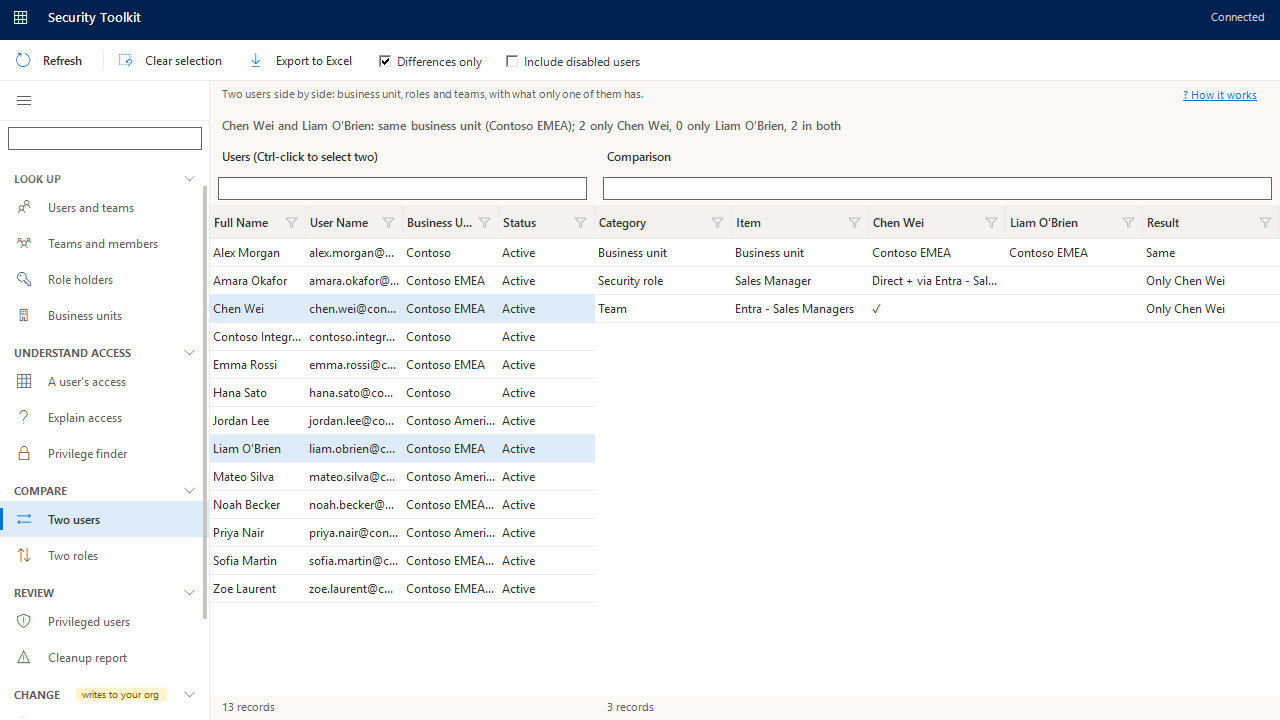
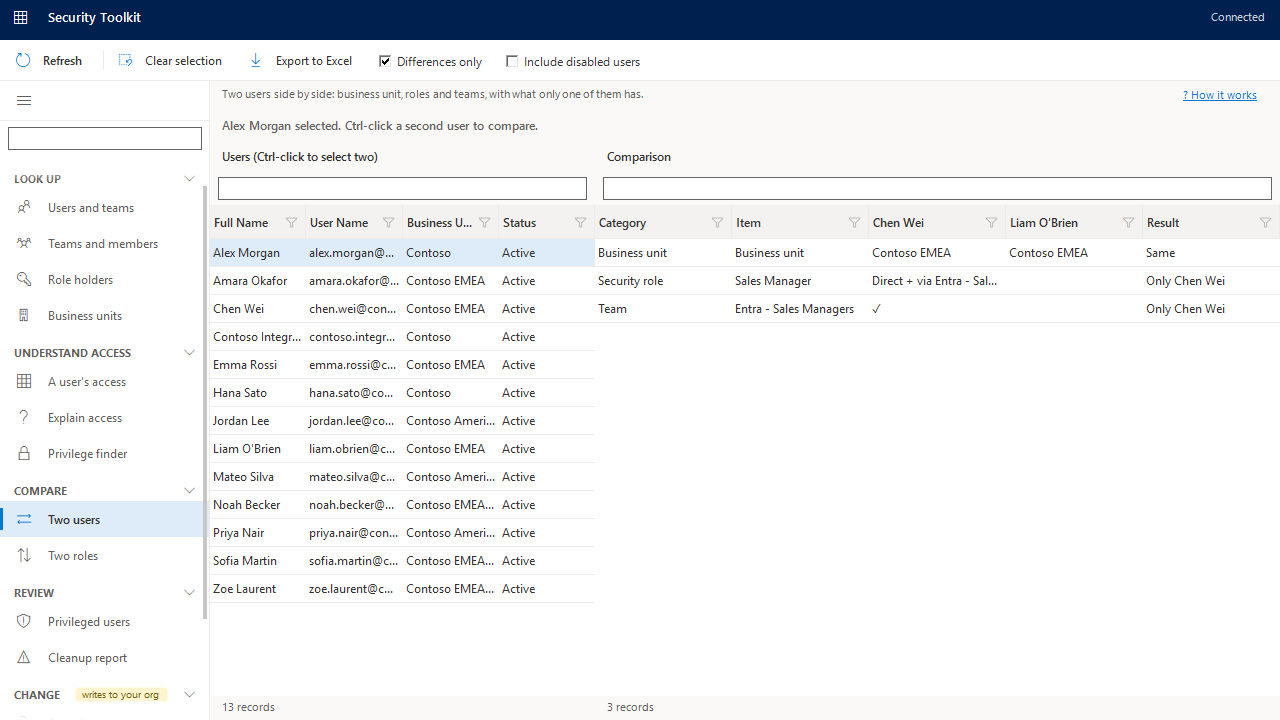
Users and teams tree: user name in bold with its business unit, teams with theirs

diff --git a/SecurityToolkit.Tests/UsersAndTeamsViewTests.cs b/SecurityToolkit.Tests/UsersAndTeamsViewTests.cs
@@ -119,7 +119,8 @@ namespace SecurityToolkit.Tests
             WithSelection(new[] { "Bob" }, (view, tree) =>
             {
                 var bob = Assert.Single(tree.Nodes.Cast<TreeNode>());
-                Assert.Equal("Bob", bob.Text);
+                Assert.Equal("Bob - Sales", bob.Text);
+                Assert.True(bob.NodeFont != null && bob.NodeFont.Bold, "The user is shown in bold.");
                 Assert.Equal(new[] { "Direct roles (1)", "Teams (2)" }, Texts(bob.Nodes));
 
                 var direct = bob.Nodes[0];
@@ -169,11 +170,41 @@ namespace SecurityToolkit.Tests
         }
 
         [Fact]
+        public void TeamsSayWhichBusinessUnitTheyAreIn_RolesStayPlain()
+        {
+            Sta.Run(() =>
+            {
+                var org = new TreeOrg();
+                var view = new UsersAndTeamsFeature().CreateView(new TestHost { Security = new SecurityToolkit.Services.SecurityService(OrgFake.Serve(org.Graph)) });
+                var form = new Form { Size = new Size(1000, 500) };
+                form.Controls.Add(view);
+                form.Show();
+                Application.DoEvents();
+                Click(Button(view, "Load users"));
+                var grid = (DataGridView)Sta.Find(view, c => c is DataGridView);
+                foreach (DataGridViewRow row in grid.Rows)
+                {
+                    row.Selected = ((SecurityToolkit.Models.UserInfo)row.DataBoundItem).FullName == "Ada";
+                }
+
+                Click(Button(view, "Show teams"));
+                var ada = ((TreeView)Sta.Find(view, c => c is TreeView)).Nodes[0];
+
+                Assert.Equal("Ada - Root", ada.Text);
+                Assert.Equal(new[] { "Admin" }, Texts(ada.Nodes[0].Nodes));                       // a role: the name only
+                var team = ada.Nodes[1].Nodes[0];
+                Assert.Equal("Alpha - Root", team.Text);                                          // a team: with its business unit
+                Assert.Equal(new[] { "Auditor" }, Texts(team.Nodes));
+                form.Dispose();
+            });
+        }
+
+        [Fact]
         public void Tree_ShowsSeveralSelectedUsersAsSeparateBranches()
         {
             WithSelection(new[] { "Ada", "Bob" }, (view, tree) =>
             {
-                Assert.Equal(new[] { "Ada", "Bob" }, Texts(tree.Nodes));
+                Assert.Equal(new[] { "Ada - Root", "Bob - Sales" }, Texts(tree.Nodes));
                 Assert.Equal(new[] { "Admin" }, Texts(tree.Nodes[0].Nodes[0].Nodes));
             });
         }

diff --git a/SecurityToolkit/Features/UsersAndTeamsFeature.cs b/SecurityToolkit/Features/UsersAndTeamsFeature.cs
@@ -187,7 +187,10 @@ namespace SecurityToolkit.Features
             /// </summary>
             private TreeNode BuildUserNode(UserInfo user)
             {
-                var userNode = Node(user.FullName, TreeIcons.User, "User");
+                // The user stands out in bold, and users and teams say which business unit they are in. Roles do not: a role is a copy in some business unit, which only confuses.
+                var userNode = Node(WithBusinessUnit(user.FullName, user.BusinessUnitName), TreeIcons.User, "User");
+                userNode.NodeFont = Theme.FontBold;
+                userNode.Text = userNode.Text; // re-set so the tree measures the bold text, or it is clipped
 
                 var directRoles = Graph.DirectRolesOf(user.Id);
                 var directNode = Node($"Direct roles ({directRoles.Count})", TreeIcons.DirectRolesGroup, "Security roles assigned to the user themselves");
@@ -200,7 +203,7 @@ namespace SecurityToolkit.Features
                 var teamsNode = Node($"Teams ({teams.Count})", TreeIcons.TeamsGroup, "Teams the user belongs to; a team's roles apply to all its members");
                 foreach (var team in teams)
                 {
-                    var teamNode = Node(team.Name, TreeIcons.Team, team.TypeName + " team");
+                    var teamNode = Node(WithBusinessUnit(team.Name, team.BusinessUnitName), TreeIcons.Team, team.TypeName + " team");
                     foreach (var role in Graph.RolesOfTeam(team.Id))
                     {
                         teamNode.Nodes.Add(Node(role.Name, TreeIcons.InheritedRole, $"Inherited from team {team.Name}"));
@@ -212,6 +215,12 @@ namespace SecurityToolkit.Features
                 userNode.Nodes.Add(directNode);
                 userNode.Nodes.Add(teamsNode);
                 return userNode;
+            }
+
+            /// <summary>"Name - Business unit"; just the name when the business unit is not known.</summary>
+            internal static string WithBusinessUnit(string name, string businessUnit)
+            {
+                return string.IsNullOrWhiteSpace(businessUnit) ? name : name + " - " + businessUnit;
             }
 
             private static TreeNode Node(string text, int icon, string toolTip)

diff --git a/SecurityToolkit.Tests/Screenshots.cs b/SecurityToolkit.Tests/Screenshots.cs
@@ -324,7 +324,7 @@ namespace SecurityToolkit.Tests
                 LoadedWithoutSelection("users-and-teams");
                 MasterDetailHarness.Select<UserInfo>(Grids("users-and-teams")[0], u => u.FullName == "Chen Wei");
                 var tree = FindControls<TreeView>(views["users-and-teams"]).Single();
-                Until(() => tree.Nodes.Count == 1 && tree.Nodes[0].Text == "Chen Wei");
+                Until(() => tree.Nodes.Count == 1 && tree.Nodes[0].Text.StartsWith("Chen Wei"));
                 Capture("users-and-teams");
 
                 // Compare two users.
